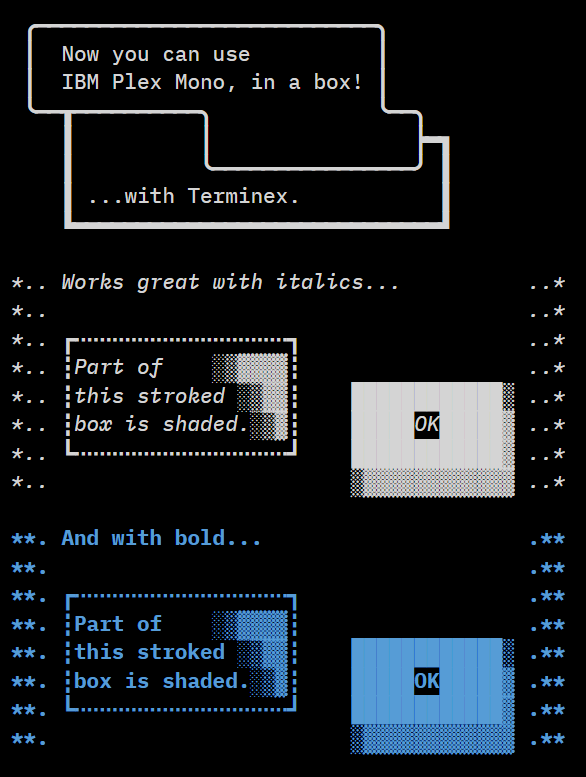
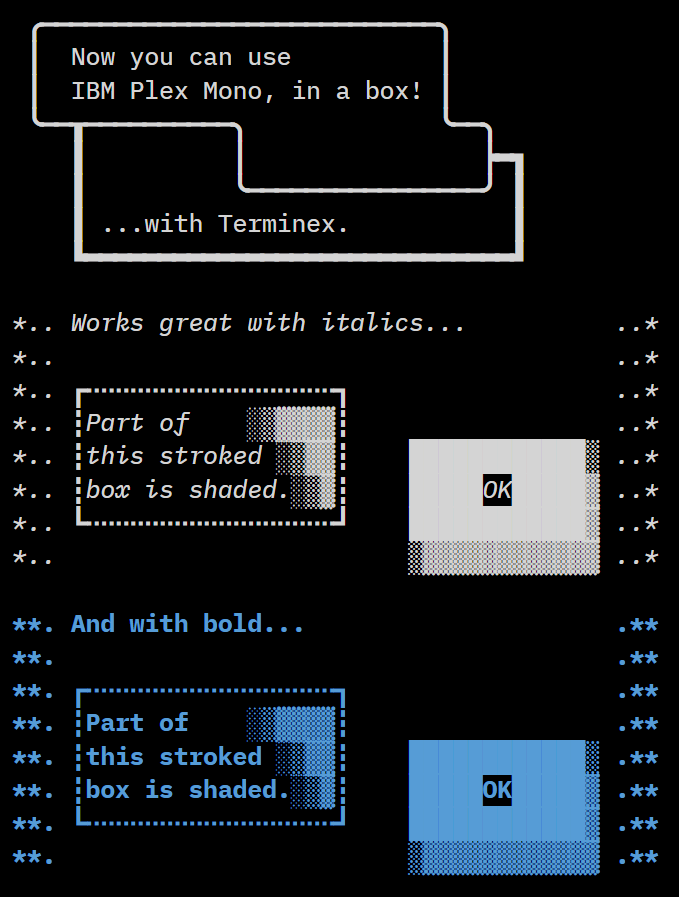
Regenerate with IBM Plex 5.1 and updated box drawing characters

diff --git a/README.md b/README.md
@@ -26,8 +26,8 @@ Install the TTF files in this repo, and reference in your application as
 Source
 ------
 
-1. Clone https://github.com/vsalvino/box-drawing and use it to generate UFO of
-   box drawing characters using the `-fontforge` flag.
+1. Clone https://github.com/adobe-type-tools/box-drawing and run it from the
+   command line to generate UFO of box drawing characters.
 
 2. Download latest IBM Plex TTF files from: https://github.com/IBM/plex
    * IBM Plex Mono Text
